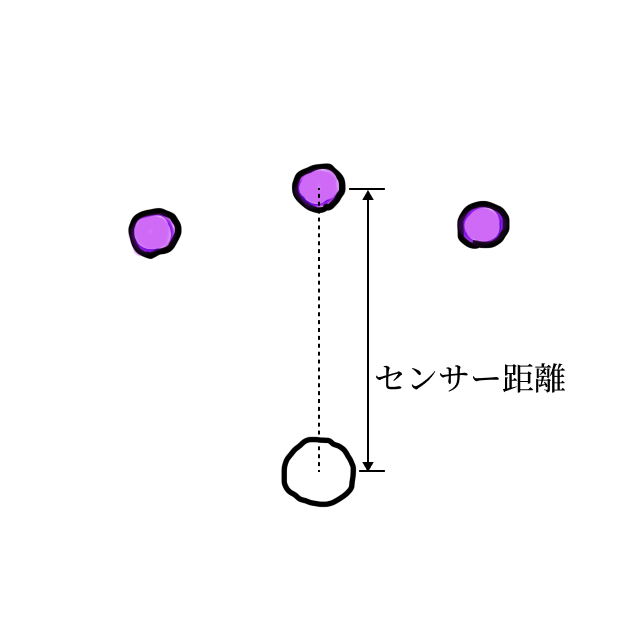
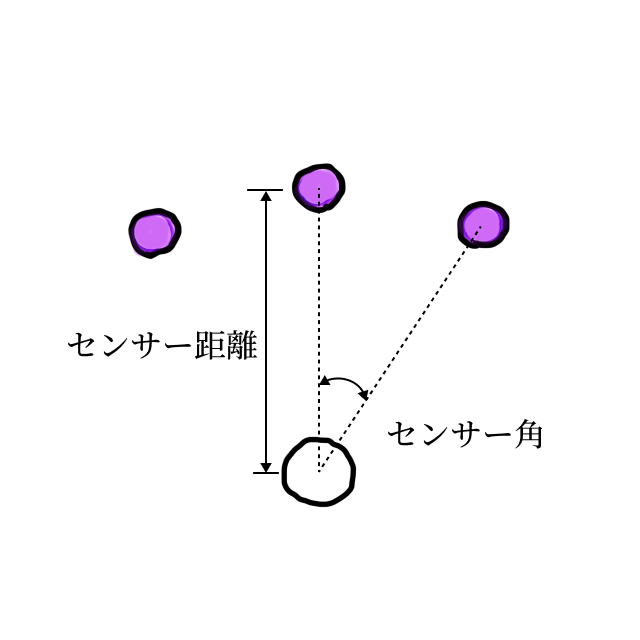
Tweak

diff --git a/src/slides/sketch-simulation-physarum.svelte b/src/slides/sketch-simulation-physarum.svelte
@@ -4,8 +4,6 @@
   import explain1 from '$assets/images/explain-physarum/physarum model 1.png';
   import explain2 from '$assets/images/explain-physarum/physarum model 2.png';
   import explain3 from '$assets/images/explain-physarum/physarum model 3.png';
-  import explain5 from '$assets/images/explain-physarum/physarum model 5.png';
-  import sensor1 from '$assets/images/explain-physarum/sensor 1.png';
   import sensor2 from '$assets/images/explain-physarum/sensor 2.png';
 
   import sensorBehavior3 from '$assets/images/explain-physarum/behavior/physarum-sensor-left.png';
@@ -60,29 +58,9 @@
       <ul>
         <li>粒子は「位置」と「向き」を持っている</li>
         <li>正面には3つの「<span class="text-purple-700">センサー</span>」がある</li>
-        <li>センサー距離、</li>
-      </ul>
-    </div>
-  </div>
-</Slide>
-
-<Slide transition="fade">
-  <div class="grid grid-cols-[1fr_1.5fr] px-8">
-    <img src={explain5} alt="" width="640" height="640" class="border" />
-    <div class="text-2xl">
-      <ul>
-        <li>粒子は「位置」と「向き」を持っている</li>
-        <li>正面には3つの「<span class="text-purple-700">センサー</span>」がある</li>
         <li>センサー距離、センサー角はパラメータ</li>
       </ul>
     </div>
-  </div>
-</Slide>
-
-<Slide transition="fade">
-  <div class="mb-4 text-4xl">センサーはフィールドを検知</div>
-  <div>
-    <img src={sensor1} alt="" width="1432" height="716" class="h-[320px] object-contain" />
   </div>
 </Slide>
 

diff --git a/src/slides/delegate-magic.svelte b/src/slides/delegate-magic.svelte
@@ -53,7 +53,7 @@
   <div class="text-3xl"><code>following</code></div>
   <div class="grid grid-cols-[1fr_320px]">
     <div class="text-3xl">
-      <Code language="kotlin" lineNumbers="|5-6,10,12"
+      <Code language="kotlin" lineNumbers="|2-4,5-6,10,12"
         >{`
       program {
         val target = object {

diff --git a/src/slides/sketch-noise.svelte b/src/slides/sketch-noise.svelte
@@ -51,7 +51,7 @@
   <div>一様乱数</div>
   <div class="grid grid-cols-[1.5fr_1fr]">
     <div class="text-2xl">
-      <Code language="kotlin" lineNumbers="8,9-15|8,11-12"
+      <Code language="kotlin" lineNumbers="8,9-15"
         >{`
       fun main() = application {
         program {
